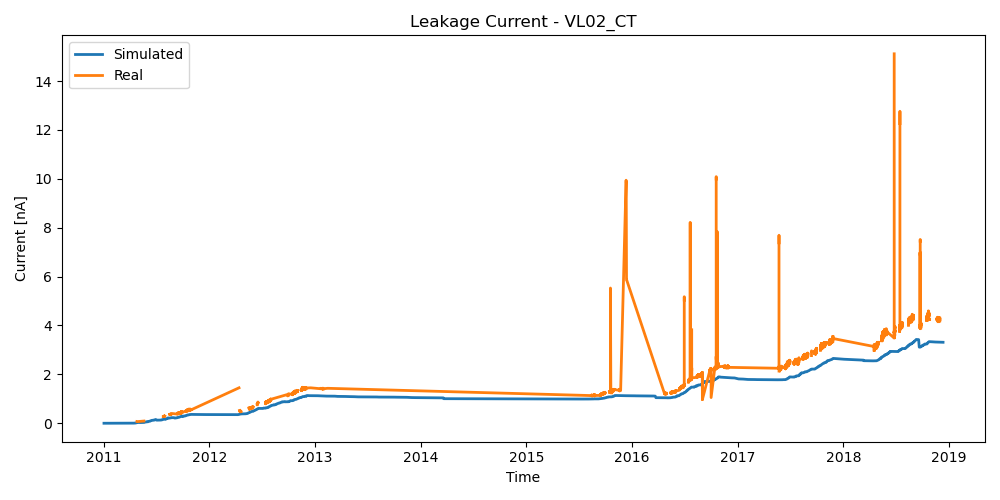
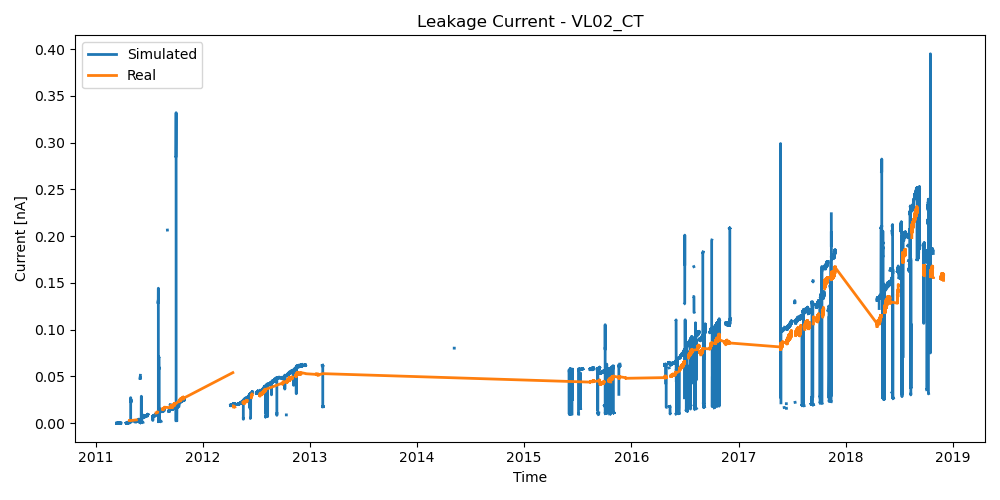
choice of temperature scalling in config

diff --git a/fluence_lib.py b/fluence_lib.py
@@ -4,7 +4,7 @@ import matplotlib.pyplot as plt
 from datetime import datetime, timedelta
 import tqdm
 import os
-from config import CURRENT_YEAR_LIST, CURRENT_YEAR_RANGES
+from config import CURRENT_YEAR_LIST, CURRENT_YEAR_RANGES, CURRENT_TEMP_MODE
 
 def load_avg_fluence(file_path: str) -> pd.DataFrame:
     df = pd.read_csv(file_path, skiprows=4)
@@ -127,15 +127,19 @@ def simulate_current_sensor(fluence_df: pd.Series, temp_df: pd.Series, params) -
         I_leak = calculate_leakage_current(fluences[:n], time_tau[:n], time_theta[:n], 
                                            params.alpha_I, params.alpha_0_star, params.beta, params.V)
         combined.loc[combined.index[n], 'current'] = I_leak*1000#+ 0.5
+    if CURRENT_TEMP_MODE == 'adjust_sim':
+        combined = adjust_simulated_current_with_temperature(
+            data = combined,
+            params=params,
+        )
+    print("Simulation completed!")
     return combined
 
 def prepare_sensor_current(current_df: pd.DataFrame, temp_df: pd.DataFrame, params, sensor_name: str) -> pd.DataFrame:
-    return adjust_current_with_temperature(current_df, temp_df, params, sensor_name)
-
-def adjust_current_with_temperature(current_data: pd.DataFrame, temperature_data: pd.DataFrame, params, column: str) -> pd.DataFrame:
-    T = temperature_data[column].reindex(current_data.index, method='nearest').values
-    R_Tref = (params.T_ref / T) ** 2 * np.exp(-(1.21 / (2 * params.kb)) * (1 / params.T_ref - 1 / T))
-    return pd.DataFrame({f"{column}": current_data[column].values * R_Tref}, index=current_data.index)
+    if CURRENT_TEMP_MODE == 'adjust_real':
+        return adjust_real_current_with_temperature(current_df, temp_df, params, sensor_name)
+    else:
+        return current_df
 
 def process_single_sensor(fluence_df, temp_df, current_df, params, sensor_name):
     fdf, tdf = prepare_sensor_data(fluence_df, temp_df, sensor_name)
@@ -173,6 +177,8 @@ def run_leakage_current_pipeline(fluence_file, temp_files, current_files, params
     return process_all_sensors(fluence_df, temp_df, current_df, params, sensor_name=sensor_name)
 
 def adjust_real_current_with_temperature(current_data: pd.DataFrame, temperature_data: pd.DataFrame, params, column: str) -> pd.DataFrame:
+    if CURRENT_TEMP_MODE == 'none':
+        return current_data
     T = temperature_data[column].reindex(current_data.index, method='nearest').values
     T_ref = params.T_ref
     E_eff = getattr(params, 'E_eff', 1.24)
@@ -183,6 +189,8 @@ def adjust_real_current_with_temperature(current_data: pd.DataFrame, temperature
     return out
 
 def adjust_simulated_current_with_temperature(data: pd.DataFrame, params) -> pd.DataFrame:
+    if CURRENT_TEMP_MODE == 'none':
+        return data
     T = data['temperature'].values
     T_ref = params.T_ref
     E_eff = getattr(params, 'E_eff', 1.24)

diff --git a/config.py b/config.py
@@ -28,6 +28,9 @@ class Paths:
         """Get temperature files for specified years."""
         return [self.get_temperature_file(f'temperature_10T_{year}.csv') for year in years]
 
+# Mode for current-temperature adjustment: 'adjust_sim', 'adjust_real', or 'none'
+CURRENT_TEMP_MODE = 'adjust_sim'  # Możesz zmienić na 'adjust_real' lub 'none'
+
 CURRENT_YEAR_RANGES = {
     'run1_current_all.csv': [2011, 2012],
     'ls1_current_all.csv': [2013, 2014, 2015],

diff --git a/fluence_run.py b/fluence_run.py
@@ -30,7 +30,7 @@ BETA = 3.29e-18
 E_I = 1.30
 K_0I = 1.2e13
 T_0 = 1.0
-V=1
+V=0.8
 
 class Parameters:
     """
@@ -98,6 +98,7 @@ def test_single_sensor(fluence_df: pd.DataFrame, temp_df: pd.DataFrame, params):
     
     # Prepare data for this sensor
     fluence_series, temp_series = prepare_sensor_data(fluence_df, temp_df, sensor_name)
+
     
     # Print first records
     print("\nFirst record of fluence data:")
